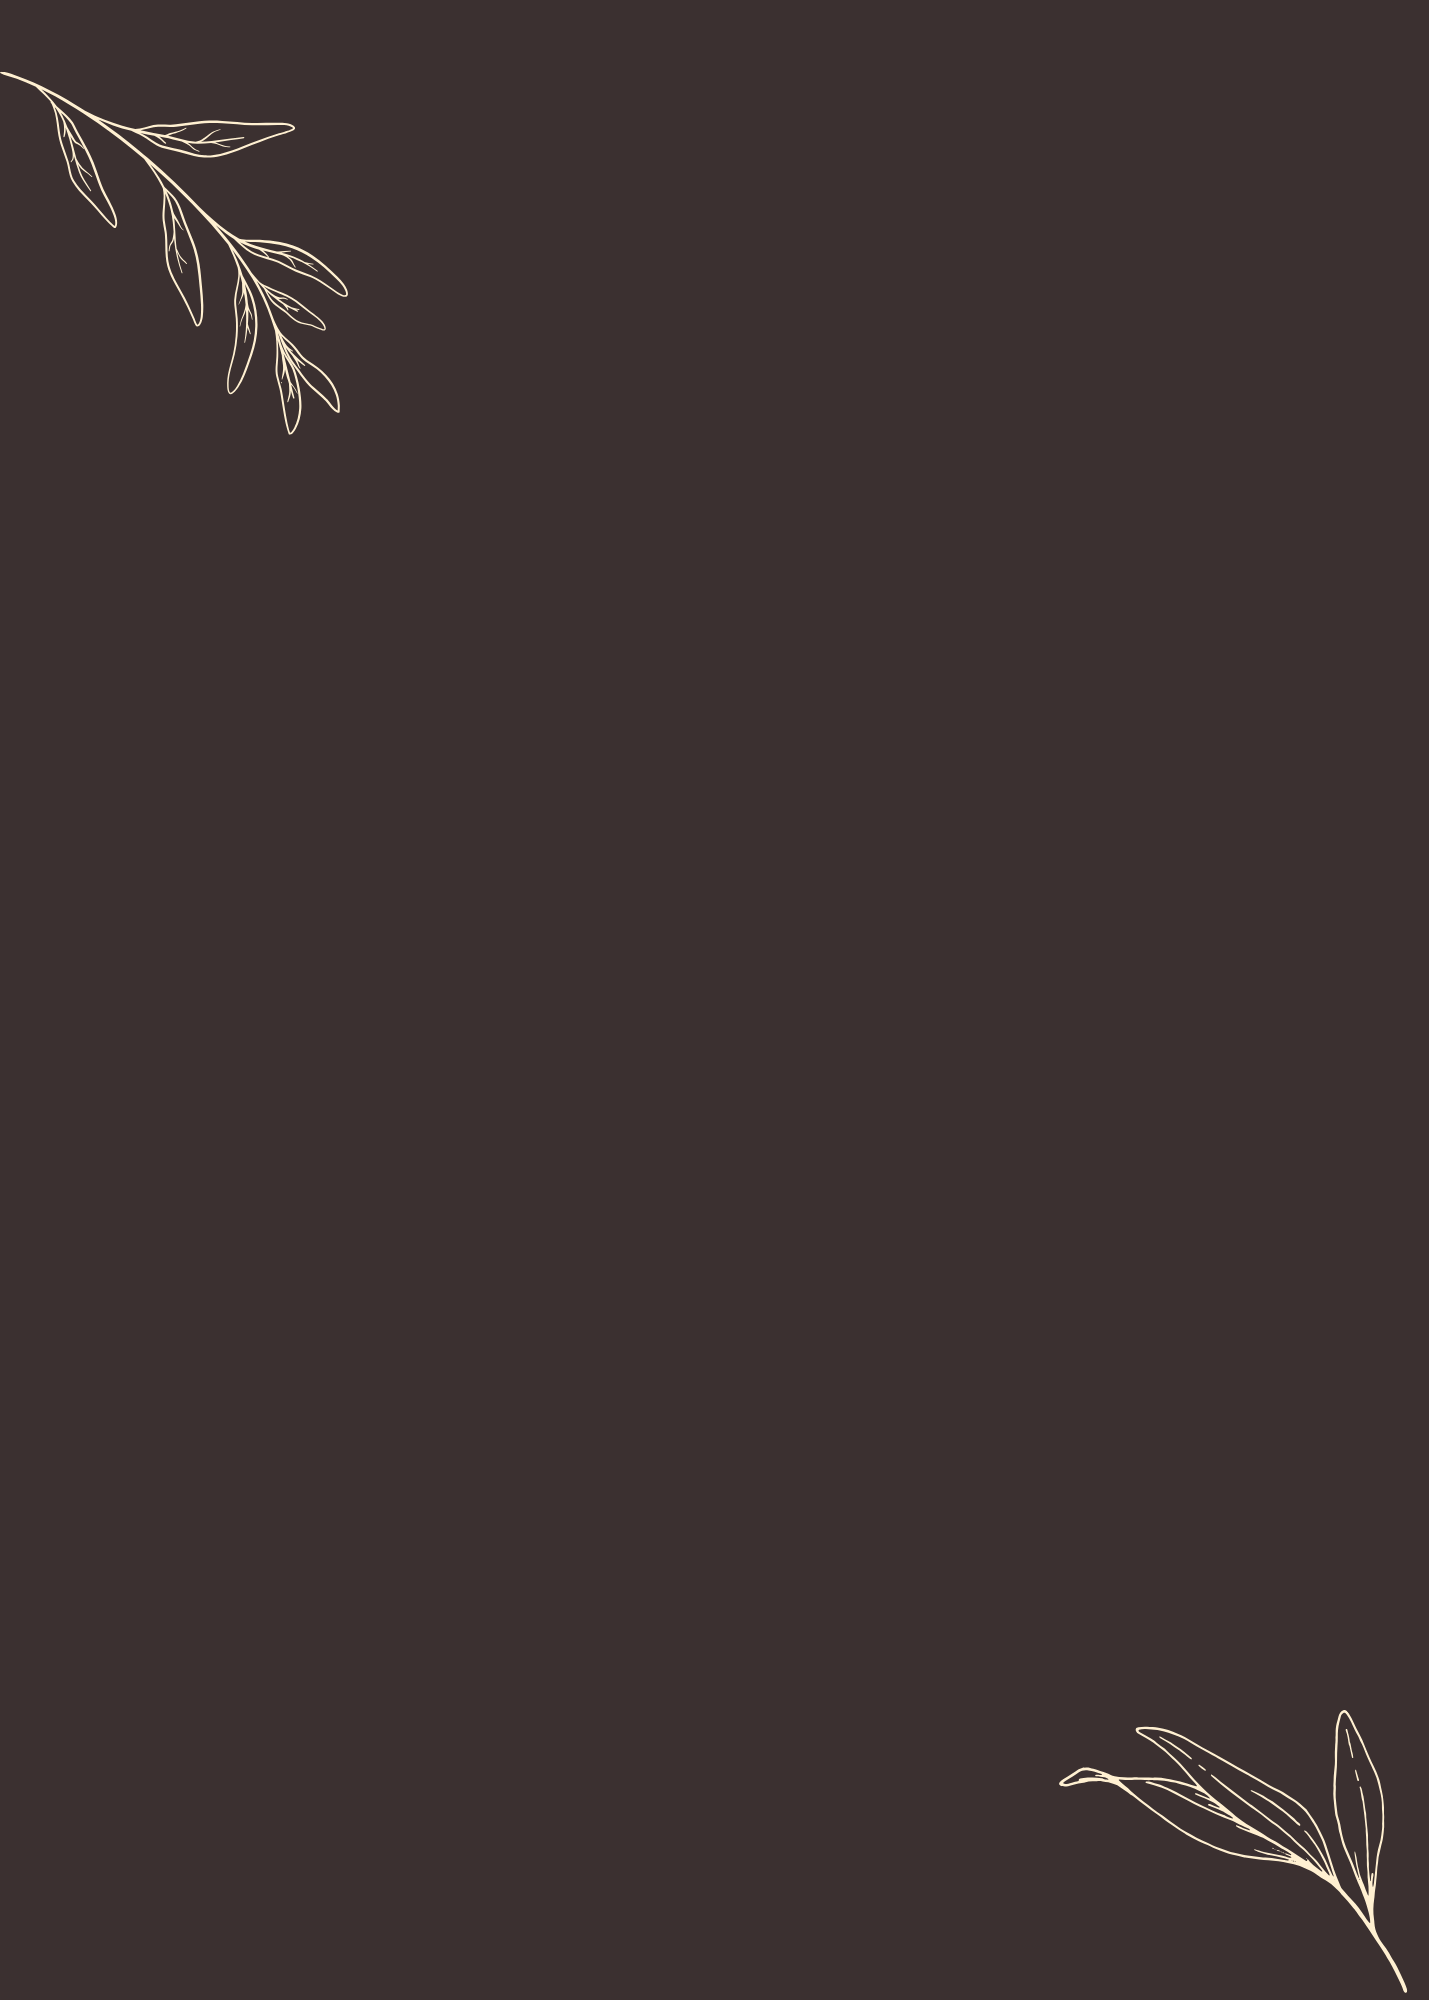
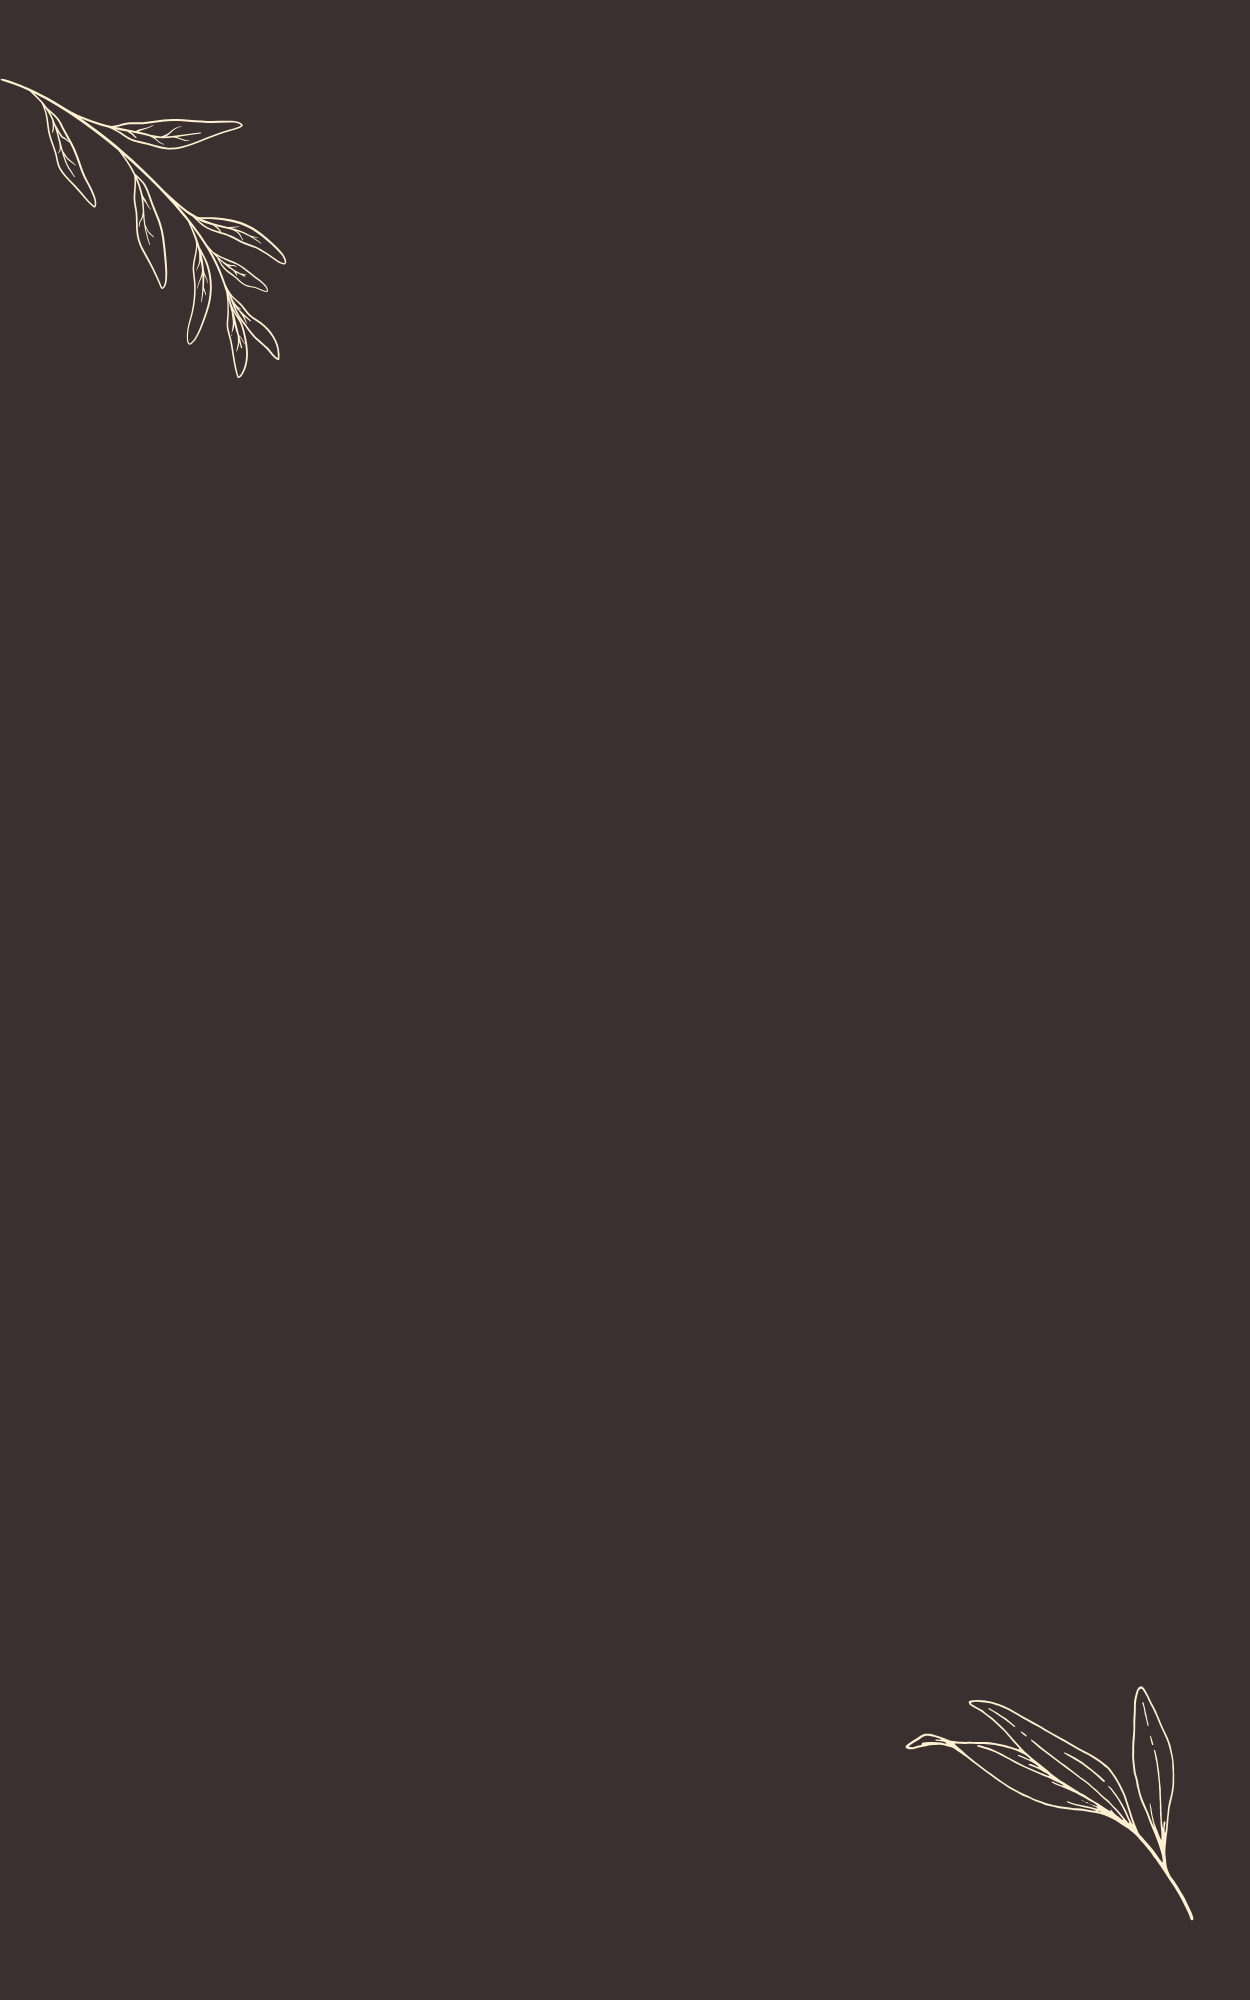
Initial commit

Changed region(s): [[0.0, 0.031, 0.2496, 0.217], [0.7488, 0.837, 0.9672, 0.961]]

diff --git a/main/static/main/css/style.css b/main/static/main/css/style.css
@@ -374,7 +374,8 @@ font-family: "Cinzel", serif;
 }
 .about-section {
   background-image: url("/static/main/images/MOBILE-BG2.png");
-  background-size: 100%;
+  background-size: contain;
+
   background-position: center;
   background-repeat: no-repeat;
   color: #3B3030;
